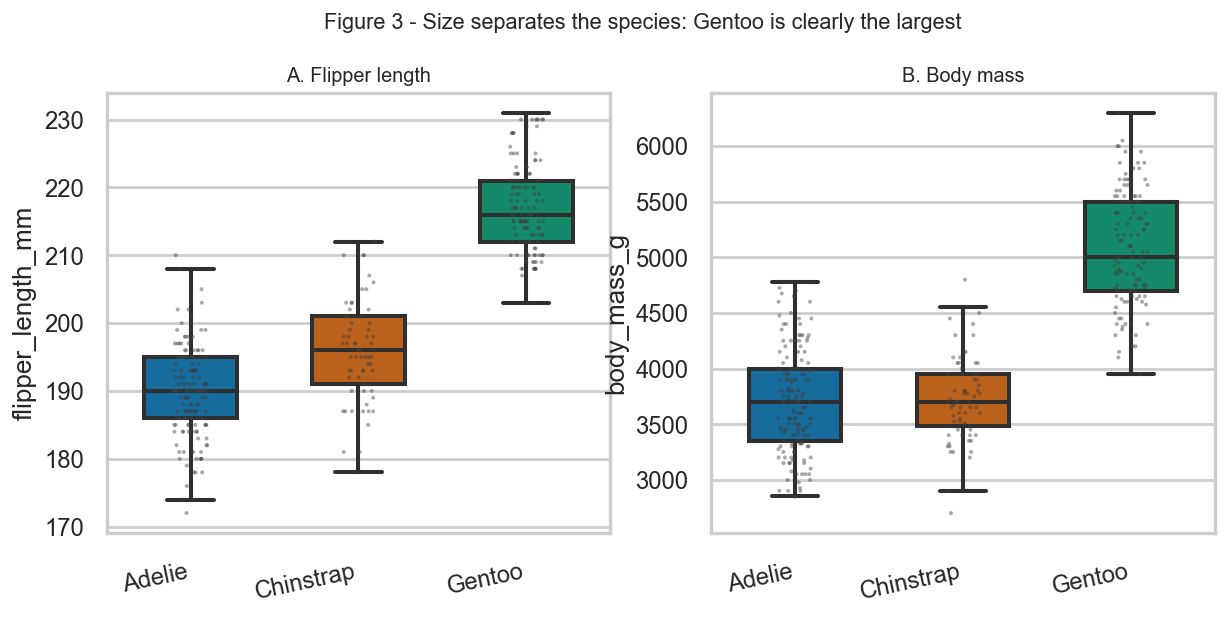
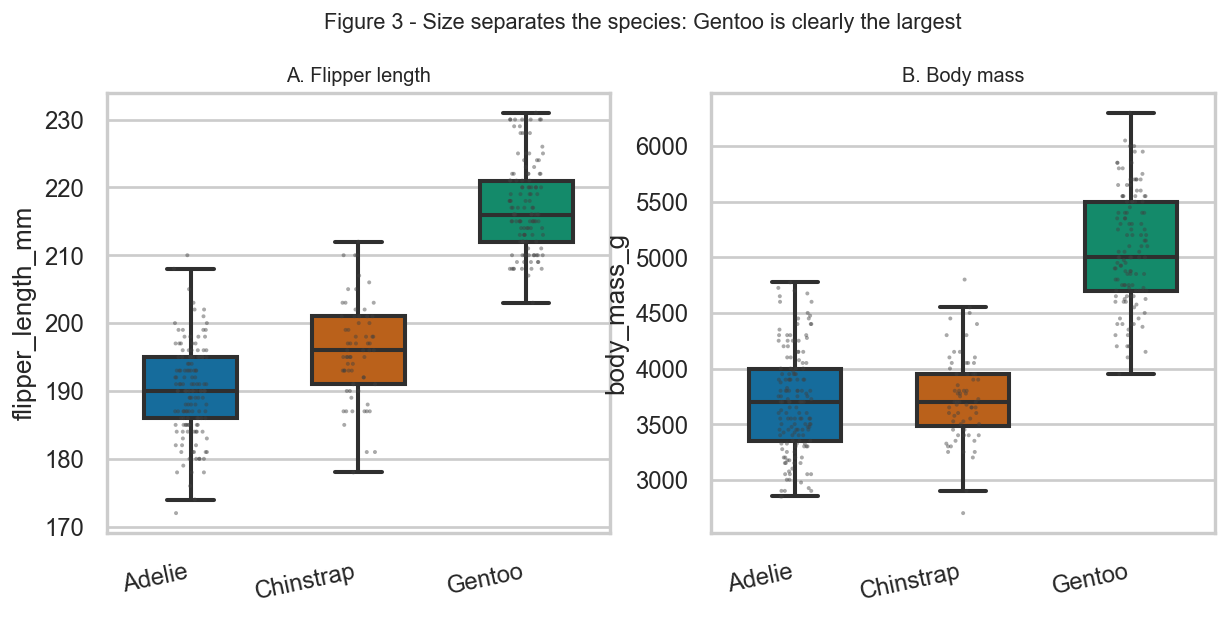
Remove personal identifying details from the repository
The published README, notebook, licence and generated summary carried a
full name and student ID, which are not required by the task and should not
be indexed on a public site.

- analysis.py / results/summary.txt: drop the Author line from the run
  summary and the module docstring
- notebooks/penguins_analysis.ipynb: rebuilt, intro now names the course only
- LICENSE: copyright holder is now first name only
- README.md: Author line removed, Course line retained

No analysis logic, figures or metrics changed.

diff --git a/analysis.py b/analysis.py
@@ -26,7 +26,6 @@ Outputs
     results/metrics.json   (model metrics, machine readable)
     results/summary.txt    (human readable summary of the run)
 
-Author: ZHU QINYI (MC64890)
 """
 
 from __future__ import print_function
@@ -405,7 +404,6 @@ def main():
     lines = [
         "Palmer penguins - analysis summary",
         "=" * 40,
-        "Author            : ZHU QINYI (MC64890)",
         "Raw rows          : %d" % len(raw),
         "Analysed rows     : %d (%d dropped for missing measurements)"
         % (len(df), n_dropped),

diff --git a/tools/build_notebook.py b/tools/build_notebook.py
@@ -178,7 +178,6 @@ def build():
         md("""
 # Can body measurements predict penguin species?
 
-**Author:** ZHU QINYI (MC64890)
 **Course:** CISC7204 - Practice 09, Data Science Portfolio
 
 ## Research question

diff --git a/README.md b/README.md
@@ -7,7 +7,7 @@ dataset, answering one question:
 > mass, can we identify its species — and which measurement carries the most
 > information?**
 
-**Author:** ZHU QINYI (MC64890) · **Course:** CISC7204 Practice 09
+**Course:** CISC7204 Practice 09
 **Status:** ✅ Completed
 
 ---
